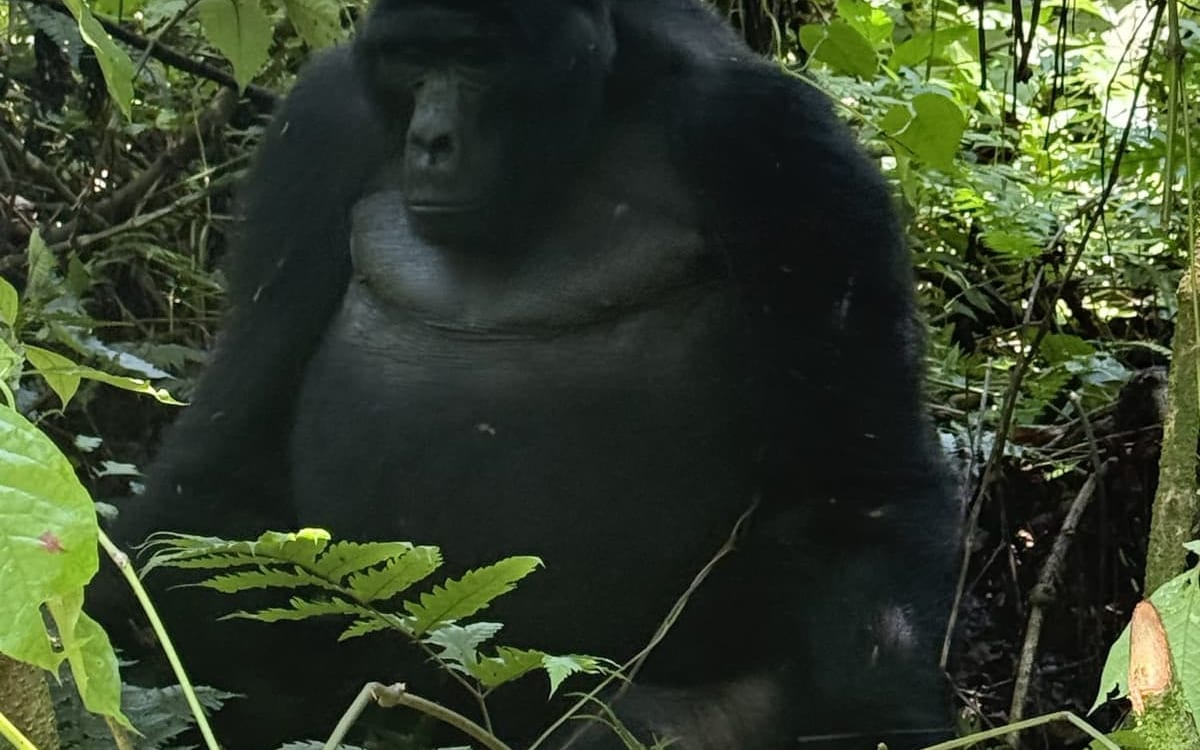
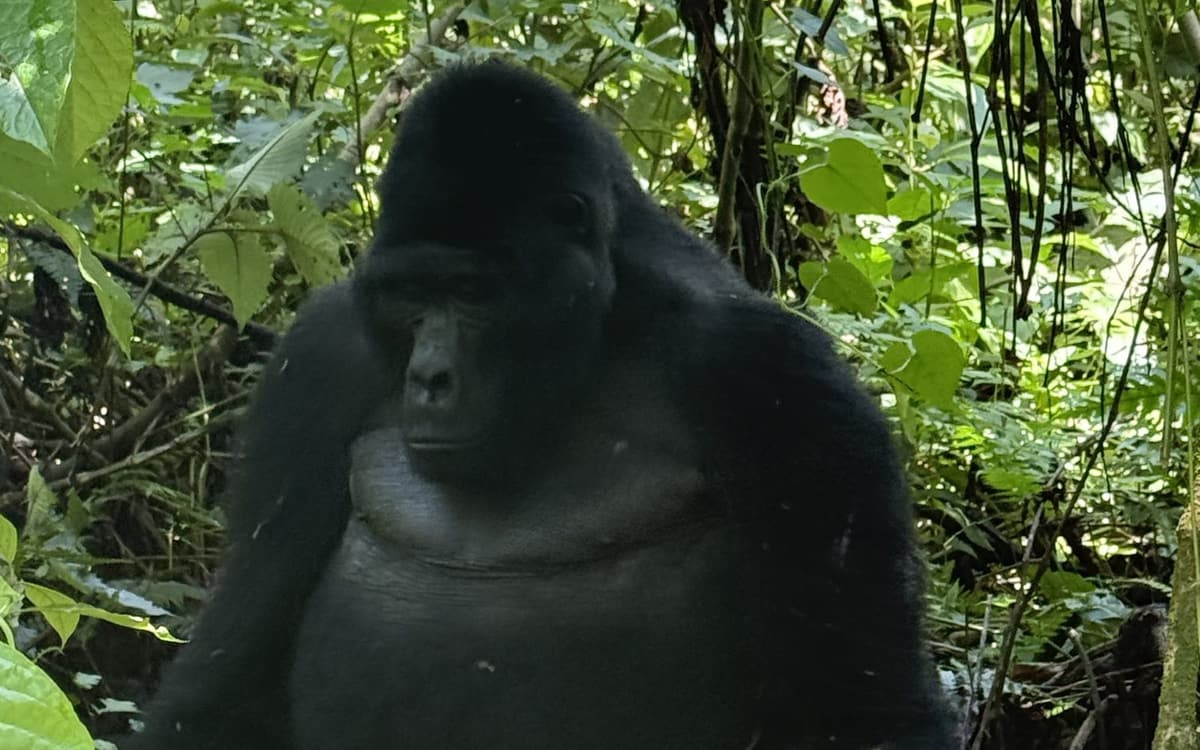
Re-cut the Bwindi gorilla so his head is in frame
The crown of the gorilla's head was cut off on the homepage, /projects and
/projects/uganda. All three read the same file, and the crown sat above row
0 of it, so no amount of object-position could recover it.

I previously reported those pixels as unrecoverable and asked for the photo.
That was wrong: this clone is shallow, grafted at 87dfa9b — which happens to
be the very commit that cropped the image — so the portrait original looked
absent when it was only outside the graft. git fetch --unshallow brings back
8c9fced, which carries the 1500x2000 original with the whole animal in frame.

Re-cut from that original as the 1500x937 window at top:235 (not centred),
resized to 1200x750, mozjpeg q76: 114KB, against 110KB before. The offset
leaves ~68px of headroom above the crown, which is enough that the 16/9
gallery box still clears the head after taking its own 37.5px off the top —
so all three render sites show him with room above, from one centred crop.

That also makes the object-top anchor from 8682d20 unnecessary, so the
gallery goes back to a plain centred object-cover and loses the per-image
position plumbing. CLAUDE.md now records that the offset is deliberate and
where the original lives, since a future re-crop that re-centres would
silently decapitate him again.

diff --git a/app/projects/uganda/page.tsx b/app/projects/uganda/page.tsx
@@ -21,24 +21,7 @@ const breadcrumbs = breadcrumbSchema([
   { name: "Uganda", path: "/projects/uganda" },
 ]);
 
-type GalleryImage = {
-  src: string;
-  alt: string;
-  // Tailwind object-position class. Defaults to the centred crop; set it when a
-  // subject sits hard against one edge of the source and a centred crop would
-  // trim it (see /uganda/bwindi-gorilla.jpg).
-  position?: string;
-};
-
-type PhotoSection = {
-  id: string;
-  eyebrow?: string;
-  title: string;
-  body: string[];
-  images: GalleryImage[];
-};
-
-const photoSections: PhotoSection[] = [
+const photoSections = [
   {
     id: "sti-partnership",
     eyebrow: "Origins",
@@ -60,11 +43,7 @@ const photoSections: PhotoSection[] = [
       "Bwindi is now proposed as the first site for a national AI sensor network to monitor environment and resources, through advanced sensor development and deployment. JPL/Caltech and the Enterprise Neurosystem are codeveloping these capabilities with Ugandan universities and scientists.",
     ],
     images: [
-      {
-        src: "/uganda/bwindi-gorilla.jpg",
-        alt: "Mountain gorilla in Bwindi Impenetrable Forest",
-        position: "object-top",
-      },
+      { src: "/uganda/bwindi-gorilla.jpg", alt: "Mountain gorilla in Bwindi Impenetrable Forest" },
       { src: "/uganda/team-and-rangers.jpg", alt: "Enterprise Neurosystem team with Uganda Wildlife Authority rangers" },
       { src: "/uganda/bwindi-forest-mist.jpg", alt: "Misty forest landscape near Bwindi" },
     ],
@@ -139,7 +118,7 @@ export default function UgandaPage() {
                         src={img.src}
                         alt={img.alt}
                         fill
-                        className={`object-cover ${img.position ?? ""}`}
+                        className="object-cover"
                         sizes="(min-width: 1024px) 30vw, 50vw"
                       />
                     </div>
